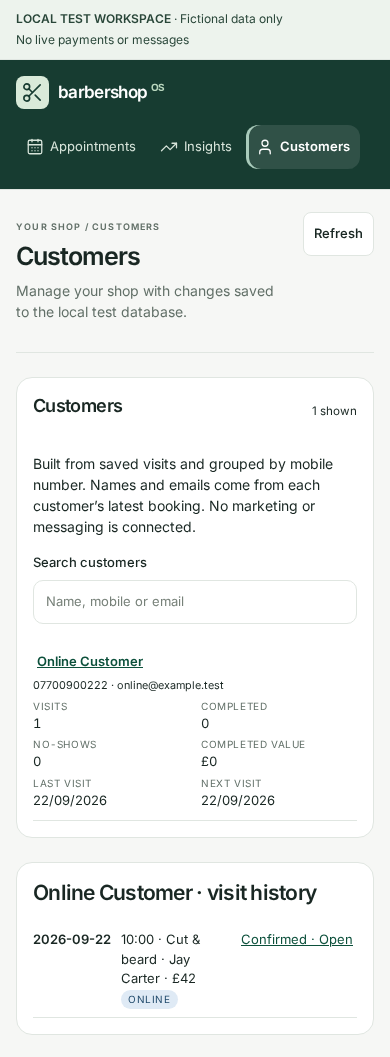
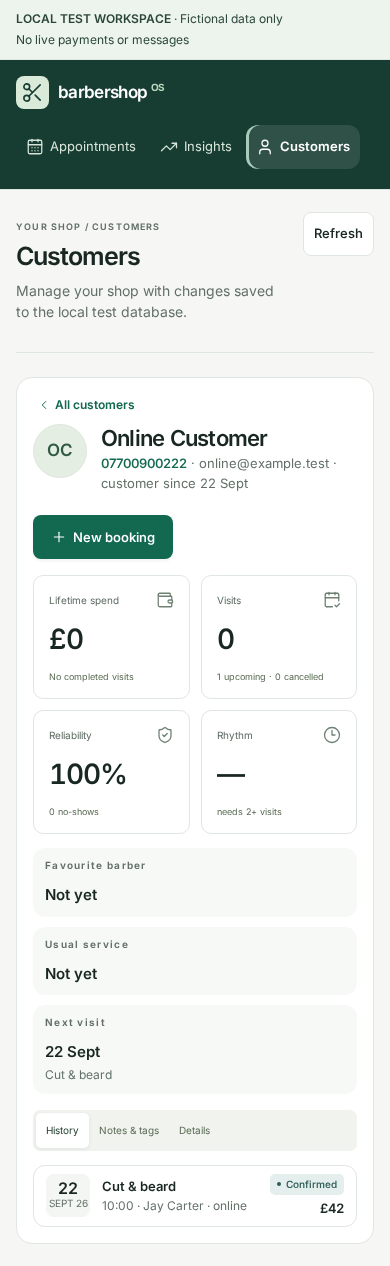
genspark auto-backup

diff --git a/tests/workspace.spec.ts b/tests/workspace.spec.ts
@@ -586,3 +586,162 @@ test("insights tab renders period-scoped aggregates from saved records at deskto
     expect(axe.violations, `axe at ${width}`).toEqual([]);
   }
 });
+
+test("appointment side panel: contextual actions, note, series ops, customer link; drawer on desktop, sheet on phone", async ({ page }) => {
+  test.setTimeout(90000);
+  const origin = "http://localhost:3000";
+  const base = origin + "/api/sandbox";
+  await page.goto("/workspace");
+  await page.getByRole("button", { name: "Open as owner", exact: true }).click();
+  await expect(page.getByRole("button", { name: "New booking", exact: true })).toBeVisible();
+  expect((await page.request.post(base + "/auth/demo", { headers: { Origin: origin }, data: { rebuild: true } })).status()).toBe(201);
+  await page.reload();
+  await expect(page.getByRole("button", { name: "New booking", exact: true })).toBeVisible();
+  const w = await (await page.request.get(base + "/workspace")).json();
+  // Book a fresh visit today at a free time so the panel has a CONFIRMED subject.
+  const staff = w.staff[0];
+  const service = w.services[0];
+  const avail = await (await page.request.get(base + `/availability?date=${w.today}&staff_id=${staff.id}&service_id=${service.id}`)).json();
+  const slot = avail.slots.find((s: any) => !s.reason);
+  test.skip(!slot, "No free slot left today in the demo shop");
+  const created = await page.request.post(base + "/bookings", {
+    headers: { Origin: origin },
+    data: { request_id: crypto.randomUUID(), staff_id: staff.id, service_id: service.id, date: w.today, start_min: slot.start_min, customer_name: "Panel Client", phone: "07700900654", source: "WALK_IN", quote: avail.quote, addon_ids: [] },
+  });
+  expect(created.status(), await created.text()).toBe(201);
+  const booking = (await created.json()).booking;
+  await page.getByRole("button", { name: "Refresh", exact: true }).click();
+  await page.getByRole("button", { name: /Panel Client/ }).first().click();
+  const panel = page.getByTestId("appointment-panel");
+  await expect(panel).toBeVisible();
+  await expect(panel.getByRole("heading", { level: 2 })).toContainText("Panel Client");
+  await expect(panel.locator(".panel-timeline li")).toHaveCount(1);
+  // Desktop: drawer on the right, calendar still visible behind.
+  const box = await panel.boundingBox();
+  expect(box!.x).toBeGreaterThan(700);
+  await expect(page.getByRole("button", { name: "New booking", exact: true })).toBeVisible();
+  // Add a note inline.
+  await panel.getByRole("button", { name: "Add note" }).click();
+  await panel.getByLabel("Appointment note").fill("Prefers a 2 on the sides");
+  await panel.getByRole("button", { name: "Save note" }).click();
+  await expect(panel.locator(".panel-notes p")).toContainText("Prefers a 2");
+  await expect(panel.locator(".panel-timeline li")).toHaveCount(2);
+  // Check in → Start → Complete via footer actions.
+  await panel.getByRole("button", { name: "Check in" }).click();
+  await expect(panel.getByText("Checked in", { exact: true }).first()).toBeVisible();
+  await panel.getByRole("button", { name: "Start service" }).click();
+  await panel.getByRole("button", { name: /^Complete/ }).click();
+  await expect(panel.getByText("Completed", { exact: true }).first()).toBeVisible();
+  await expect(panel.getByRole("button", { name: "Book again" })).toBeVisible();
+  // Customer card links through to the profile.
+  await panel.getByRole("button", { name: /Profile/ }).click();
+  await expect(page.getByTestId("customer-profile").getByRole("heading", { level: 2 })).toHaveText("Panel Client");
+  await expect(page.locator(".customer-history li")).toHaveCount(1);
+  // Standing series visit: cancel remaining from the panel.
+  await page.getByRole("navigation", { name: "Workspace sections" }).getByRole("button", { name: "Appointments", exact: true }).click();
+  const range = await (await page.request.get(base + `/bookings/range?from=${w.today}&to=${plusDays(w.today, 30)}`)).json();
+  const seriesVisit = range.bookings.find((b: any) => b.series_id && b.status === "CONFIRMED");
+  expect(seriesVisit).toBeTruthy();
+  await page.getByLabel("Appointment date", { exact: true }).fill(seriesVisit.date);
+  await page.getByRole("button", { name: new RegExp(seriesVisit.customer_name) }).first().click();
+  await expect(panel.getByText("Standing", { exact: true })).toBeVisible();
+  await expect(panel.locator(".series-strip li")).toHaveCount(5);
+  await panel.getByRole("button", { name: "Cancel series" }).click();
+  await panel.getByLabel(/Reason/).fill("Customer paused");
+  await panel.getByRole("button", { name: "Cancel visits" }).click();
+  await expect(panel.getByText("Cancelled", { exact: true }).first()).toBeVisible();
+  const after = await (await page.request.get(base + `/bookings/range?from=${w.today}&to=${plusDays(w.today, 90)}`)).json();
+  expect(after.bookings.filter((b: any) => b.series_id === seriesVisit.series_id && b.status === "CONFIRMED").length).toBe(0);
+  // Escape closes and focus returns.
+  await page.keyboard.press("Escape");
+  await expect(panel).toBeHidden();
+  // Phone: bottom sheet, full width.
+  await page.setViewportSize({ width: 390, height: 844 });
+  await page.getByRole("button", { name: "Agenda", exact: true }).click();
+  await page.locator(".workspace-booking-row").first().click();
+  await expect(panel).toBeVisible();
+  const sheet = await panel.boundingBox();
+  expect(sheet!.width).toBeGreaterThanOrEqual(380);
+  expect(sheet!.y).toBeGreaterThan(20);
+  const axe = await new AxeBuilder({ page }).withTags(["wcag2a", "wcag2aa"]).analyze();
+  expect(axe.violations).toEqual([]);
+});
+
+test("customers tab: filters, add customer with tags, profile stats, picker in booking form", async ({ page }) => {
+  test.setTimeout(90000);
+  const origin = "http://localhost:3000";
+  const base = origin + "/api/sandbox";
+  await page.goto("/workspace");
+  await page.getByRole("button", { name: "Open as owner", exact: true }).click();
+  await expect(page.getByRole("button", { name: "New booking", exact: true })).toBeVisible();
+  // Rebuild the demo so the shop state is identical on every run.
+  expect((await page.request.post(base + "/auth/demo", { headers: { Origin: origin }, data: { rebuild: true } })).status()).toBe(201);
+  await page.reload();
+  await expect(page.getByRole("button", { name: "New booking", exact: true })).toBeVisible();
+  await section(page, "Customers");
+  const list = page.getByTestId("customer-list");
+  await expect(list.locator("li").first()).toBeVisible();
+  const all = await list.locator("li").count();
+  expect(all).toBeGreaterThan(20);
+  await page.getByRole("button", { name: "Regulars", exact: true }).click();
+  await expect.poll(async () => list.locator("li").count()).toBeLessThan(all);
+  await page.getByRole("button", { name: "All", exact: true }).click();
+  await page.getByLabel("Search customers").fill("Ada");
+  await expect.poll(async () => list.locator("li").count()).toBeLessThanOrEqual(3);
+  await page.getByLabel("Search customers").fill("");
+  // Add a customer with a tag.
+  await page.getByRole("button", { name: "Add customer" }).click();
+  await page.getByLabel("Full name").fill("Fresh Face");
+  await page.getByLabel("Mobile number").fill("07700 900 321");
+  await page.getByLabel("Add tag").fill("Student");
+  await page.keyboard.press("Enter");
+  await page.getByRole("button", { name: "Add customer", exact: true }).last().click();
+  const profile = page.getByTestId("customer-profile");
+  await expect(profile.getByRole("heading", { level: 2 })).toHaveText("Fresh Face");
+  await expect(profile.locator(".tag", { hasText: "Student" }).first()).toBeVisible();
+  await expect(profile.locator(".stat-card").filter({ has: page.locator(".stat-label", { hasText: /^Visits/ }) }).locator(".stat-value")).toHaveText("0");
+  // Open a regular's profile: stats and favourites are populated.
+  await page.getByRole("button", { name: "All customers" }).click();
+  await page.getByRole("button", { name: "Regulars", exact: true }).click();
+  await expect(list.locator("li", { hasText: "Fresh Face" })).toHaveCount(0);
+  await list.locator("li button").first().click();
+  await expect(profile.locator(".customer-favourites strong").first()).not.toHaveText("Not yet");
+  await expect(profile.locator(".customer-history li").first()).toBeVisible();
+  const spend = await profile.locator(".stat-card", { hasText: "Lifetime spend" }).locator(".stat-value").innerText();
+  expect(spend).toMatch(/^£\d+/);
+  // Notes & tags tab saves.
+  await page.getByRole("button", { name: "Notes & tags", exact: true }).click();
+  await page.getByLabel(/Notes \(preferences/).fill("Allergic to menthol");
+  await page.getByRole("button", { name: "Save notes & tags" }).click();
+  await expect(page.getByRole("status").filter({ hasText: /saved|Saved/ }).or(page.getByLabel(/Notes \(preferences/))).toBeVisible();
+  // New booking from the profile pre-picks the customer.
+  await profile.getByRole("button", { name: "New booking" }).click();
+  const dialog = page.getByRole("dialog");
+  await expect(dialog.getByTestId("customer-picked")).toBeVisible();
+  await dialog.getByRole("button", { name: "Close dialog", exact: true }).click();
+  if (await dialog.getByRole("button", { name: "Discard changes and close" }).isVisible().catch(() => false))
+    await dialog.getByRole("button", { name: "Discard changes and close" }).click();
+  await expect(dialog).toBeHidden();
+  // Picker: search, arrow, enter picks; duplicate phone warns.
+  await section(page, "Appointments");
+  await page.getByRole("button", { name: "New booking", exact: true }).click();
+  await dialog.getByLabel("Find customer").fill("Fresh");
+  await expect(dialog.locator(".customer-picker-results button.active")).toContainText("Fresh Face");
+  await dialog.getByLabel("Find customer").press("Enter");
+  await expect(dialog.getByLabel("Fictional customer name")).toHaveValue("Fresh Face");
+  await expect(dialog.getByLabel("Test UK mobile number")).toHaveValue("07700900321");
+  await expect(dialog.getByTestId("customer-picked")).toBeVisible();
+  await dialog.getByRole("button", { name: "Book as someone else" }).click();
+  await dialog.getByLabel("Fictional customer name").fill("Someone New");
+  await dialog.getByLabel("Test UK mobile number").fill("07700900321");
+  await expect(dialog.locator(".customer-duplicate")).toContainText("Fresh Face already has this number");
+  await dialog.getByRole("button", { name: "use existing record" }).click();
+  await expect(dialog.getByTestId("customer-picked")).toBeVisible();
+  const axe = await new AxeBuilder({ page }).withTags(["wcag2a", "wcag2aa"]).analyze();
+  expect(axe.violations).toEqual([]);
+});
+function plusDays(date: string, n: number) {
+  const d = new Date(date + "T12:00:00Z");
+  d.setUTCDate(d.getUTCDate() + n);
+  return d.toISOString().slice(0, 10);
+}

diff --git a/tests/sandbox.spec.ts b/tests/sandbox.spec.ts
@@ -125,6 +125,11 @@ const mutationContracts = [
   ["POST", "/waitlist/:id/status"],
   ["POST", "/series/preview"],
   ["POST", "/series"],
+  ["POST", "/customers"],
+  ["PUT", "/customers/:id"],
+  ["POST", "/customers/:id/merge"],
+  ["POST", "/series/:id/cancel"],
+  ["POST", "/series/:id/reschedule"],
 ] as const;
 test("all registered mutation endpoints enforce origin and session boundaries", async () => {
   const source = readFileSync(
@@ -795,5 +800,110 @@ test("series preview marks conflicts, requires explicit skips, and creation runs
     await r.get(base + `/bookings/range?from=${p.date}&to=${plusDays(p.date, 30)}`)
   ).json();
   expect(range.bookings.filter((b: any) => b.series_id === body.series_id)).toHaveLength(2);
+  await r.dispose();
+});
+
+test("customers: booking creates/links records, CRUD is versioned, filters/sorts work, merge moves visits, barbers scoped", async () => {
+  const r = await owner("Customer records shop");
+  const w = await workspace(r);
+  const first = await create(r, w, 540);
+  expect(first.customer_id).toBeTruthy();
+  // Same phone again reuses the record; a different phone makes a second record.
+  const second = await create(r, w, 660);
+  expect(second.customer_id).toBe(first.customer_id);
+  const other = await r.post(base + "/bookings", { data: { ...payload(w, 840), phone: "07700900777", customer_name: "Second Person" } });
+  expect(other.status(), await other.text()).toBe(201);
+  const list = await (await r.get(base + "/customers")).json();
+  expect(list.customers).toHaveLength(2);
+  const me = list.customers.find((c: any) => c.id === first.customer_id);
+  expect(me.upcoming).toBe(2);
+  expect(me.visits).toBe(2);
+  // Create via API with tags; duplicate phone refused.
+  const created = await r.post(base + "/customers", { data: { name: "Walk In", phone: "07700 900 888", email: "", tags: ["VIP"] } });
+  expect(created.status(), await created.text()).toBe(201);
+  const cust = (await created.json()).customer;
+  expect(cust.phone).toBe("07700900888");
+  expect((await r.post(base + "/customers", { data: { name: "Dup", phone: "07700900888" } })).status()).toBe(409);
+  expect((await r.post(base + "/customers", { data: { name: "Bad", phone: "12345" } })).status()).toBe(400);
+  // Update is versioned and audited.
+  const upd = await r.put(base + `/customers/${cust.id}`, {
+    data: { name: "Walk In", phone: "07700900888", email: "w@example.test", notes: "Likes it short", tags: ["VIP", "Regular"], birthday: "", preferred_staff_id: w.staff[1].id, marketing_opt_in: 1, version: 0 },
+  });
+  expect(upd.status(), await upd.text()).toBe(200);
+  expect((await upd.json()).customer.version).toBe(1);
+  expect((await r.put(base + `/customers/${cust.id}`, { data: { name: "Walk In", phone: "07700900888", version: 0 } })).status()).toBe(409);
+  // Booking against a chosen customer_id links it even with a different typed phone.
+  const linked = await r.post(base + "/bookings", { data: { ...payload(w, 900), phone: "07700900111", customer_name: "Typed Differently", customer_id: cust.id } });
+  expect(linked.status(), await linked.text()).toBe(201);
+  expect((await linked.json()).booking.customer_id).toBe(cust.id);
+  // Profile aggregates.
+  const profile = await (await r.get(base + `/customers/${cust.id}`)).json();
+  expect(profile.customer.upcoming).toBe(1);
+  expect(profile.bookings).toHaveLength(1);
+  expect(JSON.parse(profile.customer.tags)).toEqual(["VIP", "Regular"]);
+  // Filters and sorts.
+  expect((await (await r.get(base + "/customers?filter=upcoming")).json()).customers.length).toBe(3);
+  expect((await (await r.get(base + "/customers?filter=regulars")).json()).customers.length).toBe(0);
+  expect((await (await r.get(base + "/customers?q=VIP")).json()).customers.map((c: any) => c.id)).toEqual([cust.id]);
+  expect((await r.get(base + "/customers?filter=bogus")).status()).toBe(400);
+  const byName = (await (await r.get(base + "/customers?sort=name")).json()).customers.map((c: any) => c.name);
+  expect(byName).toEqual([...byName].sort((a, b) => a.localeCompare(b)));
+  // Merge the second person into the first; visits move, loser resolves to winner.
+  const loser = list.customers.find((c: any) => c.phone === "07700900777");
+  const merged = await r.post(base + `/customers/${loser.id}/merge`, { data: { into: first.customer_id, version: loser.version } });
+  expect(merged.status(), await merged.text()).toBe(200);
+  expect((await merged.json()).moved).toBe(1);
+  const after = await (await r.get(base + `/customers/${first.customer_id}`)).json();
+  expect(after.bookings).toHaveLength(3);
+  expect((await (await r.get(base + `/customers/${loser.id}`)).json()).customer.id).toBe(first.customer_id);
+  expect((await (await r.get(base + "/customers")).json()).customers).toHaveLength(2);
+  expect((await r.post(base + `/customers/${loser.id}/merge`, { data: { into: first.customer_id, version: 1 } })).status()).toBe(409);
+  const audit = (await workspace(r)).audit.map((a) => a.action);
+  for (const action of ["CUSTOMER_CREATED", "CUSTOMER_UPDATED", "CUSTOMER_MERGED", "CUSTOMER_MERGED_AWAY"]) expect(audit).toContain(action);
+  // Another tenant cannot read or book against this customer.
+  const stranger = await owner("Other customers shop");
+  expect((await stranger.get(base + `/customers/${cust.id}`)).status()).toBe(404);
+  const sw = await workspace(stranger);
+  expect((await stranger.post(base + "/bookings", { data: { ...payload(sw, 540), customer_id: cust.id } })).status()).toBe(404);
+  await Promise.all([r.dispose(), stranger.dispose()]);
+});
+
+test("appointment timeline and standing-series cancel/reschedule operate through the same guards", async () => {
+  const r = await owner("Series ops shop");
+  const w = await workspace(r);
+  const p = payload(w, 600);
+  const { request_id, ...rest } = p;
+  const saved = await r.post(base + "/series", { data: { ...rest, interval_weeks: 1, occurrences: 4, skip_dates: [] } });
+  expect(saved.status(), await saved.text()).toBe(201);
+  const body = await saved.json();
+  const [v1, v2, v3, v4] = body.created as StoredBooking[];
+  const tl = await (await r.get(base + `/bookings/${v2.id}/timeline`)).json();
+  expect(tl.booking.id).toBe(v2.id);
+  expect(tl.events.map((e: any) => e.action)).toContain("BOOKING_CREATED");
+  expect(tl.customer.visits).toBe(4);
+  expect(tl.series).toHaveLength(4);
+  // Move v3 onward to 11:00 with the other barber; v1/v2 untouched.
+  const moved = await r.post(base + `/series/${body.series_id}/reschedule`, {
+    data: { staff_id: w.staff[1].id, start_min: 660, reason: "Barber swap", from_booking_id: v3.id },
+  });
+  expect(moved.status(), await moved.text()).toBe(200);
+  const mv = await moved.json();
+  expect(mv.moved.map((b: any) => b.id).sort()).toEqual([v3.id, v4.id].sort());
+  expect(mv.failed).toEqual([]);
+  expect(mv.moved.every((b: any) => b.start_min === 660 && b.staff_id === w.staff[1].id)).toBe(true);
+  expect((await (await r.get(base + `/bookings/${v1.id}`)).json()).booking.start_min).toBe(600);
+  // Cancel from v2 onward; v1 stays confirmed.
+  const cancelled = await r.post(base + `/series/${body.series_id}/cancel`, { data: { reason: "Customer moving away", from_booking_id: v2.id } });
+  expect(cancelled.status(), await cancelled.text()).toBe(200);
+  expect((await cancelled.json()).cancelled).toBe(3);
+  expect((await (await r.get(base + `/bookings/${v1.id}`)).json()).booking.status).toBe("CONFIRMED");
+  expect((await (await r.get(base + `/bookings/${v4.id}`)).json()).booking.status).toBe("CANCELLED");
+  // Nothing left to cancel after the last visit is cancelled too.
+  expect((await r.post(base + `/series/${body.series_id}/cancel`, { data: { reason: "All" } })).status()).toBe(200);
+  expect((await r.post(base + `/series/${body.series_id}/cancel`, { data: { reason: "Again" } })).status()).toBe(404);
+  expect((await r.post(base + `/series/${body.series_id}/cancel`, { data: { reason: "x" } })).status()).toBe(400);
+  const audit = (await workspace(r)).audit.map((a) => a.action);
+  expect(audit).toContain("SERIES_RESCHEDULED");
+  expect(audit).toContain("SERIES_CANCELLED");
   await r.dispose();
 });

diff --git a/tests/public.spec.ts b/tests/public.spec.ts
@@ -297,12 +297,17 @@ test("owner customer directory aggregates visits by phone and scopes barbers", a
   expect(list.customers).toHaveLength(2);
   const first = list.customers.find((x: { phone: string }) => x.phone === "07700900222");
   expect(first.visits).toBe(2);
+  // The customer record keeps the first-seen contact; the later rename stays on the booking snapshot.
   expect(first.email).toBe("online@example.test");
+  expect(first.favourite_service).toBeNull();
+  expect(first.upcoming).toBe(2);
   const search = await (await r.get(base + "/customers?q=second")).json();
   expect(search.customers).toHaveLength(1);
   const history = await (await r.get(base + "/customers/07700900222")).json();
   expect(history.bookings).toHaveLength(2);
-  expect((await r.get(base + "/customers/12345")).status()).toBe(400);
+  expect(history.customer.id).toBe(first.id);
+  expect((await r.get(base + `/customers/${first.id}`)).status()).toBe(200);
+  expect((await r.get(base + "/customers/12345")).status()).toBe(404);
   expect((await r.get(base + "/customers/07700900000")).status()).toBe(404);
 });
 
@@ -425,8 +430,8 @@ test.describe("public booking pages", () => {
     await expect(page.getByRole("heading", { level: 2, name: "Customers" })).toBeVisible();
     await expect(page.getByRole("button", { name: "Online Customer" })).toBeVisible();
     await page.getByRole("button", { name: "Online Customer" }).click();
-    await expect(page.getByRole("heading", { name: /visit history/ })).toBeVisible();
-    await expect(page.locator(".customer-history .channel-badge")).toHaveText("Online");
+    await expect(page.getByRole("heading", { level: 2, name: "Online Customer" })).toBeVisible();
+    await expect(page.locator(".customer-history .history-main small")).toContainText("online");
     await page.setViewportSize({ width: 390, height: 844 });
     const results = await new AxeBuilder({ page }).withTags(["wcag2a", "wcag2aa"]).analyze();
     expect(results.violations.map((v) => v.id)).toEqual([]);

diff --git a/tests/accounts.spec.ts b/tests/accounts.spec.ts
@@ -99,6 +99,7 @@ const mutations = [
   ["POST", "/accept"],
   ["PUT", "/members/:id"],
   ["POST", "/password"],
+  ["POST", "/demo"],
 ];
 test("account mutation inventory enforces origin and anonymous authorization", async () => {
   const source = readFileSync("src/server/accounts.ts", "utf8");
@@ -123,7 +124,7 @@ test("account mutation inventory enforces origin and anonymous authorization", a
         ).status(),
       ).toBe(403);
     }
-    if (!["/login", "/logout", "/accept"].includes(path))
+    if (!["/login", "/logout", "/accept", "/demo"].includes(path))
       expect(
         (
           await anonymous.fetch(

diff --git a/src/client/Workspace.tsx b/src/client/Workspace.tsx
@@ -1941,6 +1941,9 @@ export function Workspace() {
         >
           <details className="panel-card panel-advanced" open>
             <summary>Status with note, edit details, share confirmation</summary>
+            <section className="workspace-booking-detail">
+              <BookingItems items={JSON.parse(editor.item.items_json) as BookingItem[]} />
+            </section>
             <div className="appointment-detail-actions">
               <Button variant="ghost" onClick={() => setEditor({ kind: "contacts", item: editor.item })}>
                 Edit booking details
